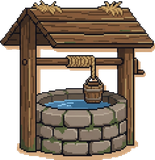
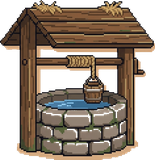
fix(vila): corrige os 8 problemas apontados no playtest
- arvores de fundo flutuavam sobre os vaos: as camadas de parallax ganharam
  uma "saia" de cor solida abaixo da linha do chao. Cor unica, nao
  prolongamento de cada coluna, que virava listra vertical.
- colinas nao apareciam: estavam cobertas pela treeline. As duas camadas
  foram reposicionadas em alturas distintas.
- arbusto e poco com mancha clara em volta: era a elipse de sombra bege do
  gerador. Nao e branca, entao escapava do limiar; agora o recorte tambem
  descarta o que for claro E dessaturado.
- pontinhos brancos na copa das arvores e franja no topo da grama: limiar
  ajustado e despeckle para os pixels soltos que sobravam.
- poluicao visual: fase alongada de 72 para 92 tiles e props reespacados.
  Casa sobre moinho e o alvo de treino sumido eram sintoma de densidade
  alta demais. Barraca e bigorna ficaram de fora por falta de espaco --
  os assets seguem no repo para a fase 2.
- raizes da arvore central acima do chao: props de fundo agora aceitam
  offsetY e a arvore afunda 26px.
- cerca atravessando o abismo: o comprimento e cortado na borda do segmento
  de chao em que ela comeca.

Pendente: o tile de grama continua alto demais. Depende de arte nova.

diff --git a/src/scenes/biomes/Vila_0/fase1Layout.js b/src/scenes/biomes/Vila_0/fase1Layout.js
@@ -12,78 +12,86 @@
 // sem recalcular lá:
 //   plataformas no MÁXIMO 2 tiles acima do chão (o pulo sobe ~2,75)
 //   vãos no MÁXIMO 3 tiles (alcance horizontal ~3,66)
+//
+// ESPAÇAMENTO: a primeira montagem colocou casa em cima de moinho e o alvo de
+// treino sumiu no meio dos props. A fase foi alongada de 72 para 92 tiles e
+// cada elemento ganhou espaço livre em volta. Vale a regra: melhor ter menos
+// props e conseguir ler cada um do que empilhar tudo.
 
-export const TILES_WIDE = 72;
+export const TILES_WIDE = 92;
 export const GROUND_ROW = 9;
 
-// Quantas linhas de terra desenhar abaixo da linha do chão. 3 cobre a tela
-// inteira até a borda inferior sem sobrar buraco.
+// Quantas linhas de terra desenhar abaixo da linha do chão.
 export const FILL_ROWS = 3;
 
 // [tileInicial, quantidadeDeTiles].
 // Os vãos entre segmentos ensinam o pulo em dificuldade crescente: 1 -> 2 -> 3.
-// O vão de 3 tiles (43–45) é o clímax do tutorial e vem logo antes do respiro
+// O vão de 3 tiles (51–53) é o clímax do tutorial e vem logo antes do respiro
 // da vila.
 export const GROUND_SEGMENTS = [
-  [0, 13],   // spawn, chão plano, sem risco — só mover
-  [14, 9],   // primeiro desnível (vão de 1)
-  [25, 10],  // vão de 2
-  [37, 6],   // vão de 2
-  [46, 16],  // vão de 3, depois o trecho da vila
-  [64, 8],   // vão de 2, depois a saída
+  [0, 16],   // spawn e árvore central — chão plano, só mover
+  [17, 10],  // primeiro desnível (vão de 1)
+  [29, 12],  // vão de 2 — plataformas e alvo de treino
+  [43, 8],   // vão de 2 — casa isolada na borda da vila
+  [54, 24],  // vão de 3 — a vila propriamente dita
+  [80, 12],  // vão de 2 — saída
 ];
 
 // Plataformas suspensas: [tileInicial, quantidadeDeTiles, alturaEmTiles].
 // Altura contada a partir da linha do chão. Nunca acima de MAX_PLATFORM_TILES.
 export const PLATFORMS = [
-  [16, 3, 1],  // degrau baixo — introduz o pulo sem punição
-  [20, 2, 2],  // já na altura máxima
-  [28, 3, 2],
-  [33, 2, 1],
-  [39, 3, 2],
-  [56, 2, 1],  // dentro da vila, opcional — leva a nada, só convida a pular
+  [19, 3, 1],  // degrau baixo — introduz o pulo sem punição
+  [23, 2, 2],  // já na altura máxima
+  [31, 3, 2],
+  [39, 2, 1],
 ];
 
 // Checkpoints — sempre no início de um trecho seguro, logo após um vão.
-export const CHECKPOINTS = [15, 26, 47];
+export const CHECKPOINTS = [18, 30, 55];
 
 export const SPAWN_TILE = 2;
-export const EXIT_TILE = 69;
+export const EXIT_TILE = 89;
 
-// Alvo de treino: ensina o Ataque. Objeto de cenário destrutível, sem IA e
-// sem dano — não é inimigo (04_BESTIARIO_MACRO.md não se aplica).
-export const TRAINING_DUMMY_TILE = 60;
+// Alvo de treino: ensina o Ataque. Fica sozinho no meio de um segmento, sem
+// nenhum prop por perto — na primeira montagem ele desaparecia no cenário.
+// Objeto de cenário destrutível, sem IA e sem dano: não é inimigo.
+export const TRAINING_DUMMY_TILE = 36;
 
 // --- Cenário ---------------------------------------------------------------
 // Camada de FUNDO: parallax leve (scrollFactor < 1), sem colisão.
-// São os marcos visuais e os edifícios da vila (02_CONTINENTE.md, Região 0).
+// offsetY afunda o prop no chão — a árvore tem raízes que se espalham para os
+// lados e, assentada exatamente na linha do chão, deixava terra flutuando.
 export const BACKGROUND_PROPS = [
-  { key: 'arvore', tileX: 5, scroll: 0.75 },        // marco visual do spawn
-  { key: 'casa_taipa', tileX: 47, scroll: 0.8 },
-  { key: 'moinho', tileX: 52, scroll: 0.7 },        // marco visual, isolado
-  { key: 'casa_madeira', tileX: 57, scroll: 0.8 },
+  { key: 'arvore', tileX: 6, scroll: 0.75, offsetY: 26 },  // marco visual
+  { key: 'casa_madeira', tileX: 46, scroll: 0.8 },         // casa isolada
+  { key: 'casa_taipa', tileX: 58, scroll: 0.8 },           // vila
+  { key: 'moinho', tileX: 68, scroll: 0.7 },               // marco visual
 ];
 
 // Camada de FRENTE: mesma velocidade do chão, assentados sobre ele.
-// A forja apagada e a barraca vazia são os "pequenos sinais" de que algo mudou
+// A forja apagada é um dos "pequenos sinais" de que algo mudou
 // (02_CONTINENTE.md, Região 0 — Lore).
+//
+// A barraca de mercado e a bigorna ficaram DE FORA: não havia espaço para
+// exibi-las sem encostar num edifício de fundo. Os assets seguem prontos no
+// repositório para quando a fase 2 (exploração) for montada.
 export const FOREGROUND_PROPS = [
   { key: 'arbusto', tileX: 3 },
-  { key: 'arbusto', tileX: 10 },
-  { key: 'arbusto', tileX: 30 },
-  { key: 'arbusto', tileX: 41 },
-  { key: 'poco', tileX: 49 },
-  { key: 'barraca', tileX: 53 },
-  { key: 'barril', tileX: 55.6 },
-  { key: 'caixa', tileX: 56.6 },
-  { key: 'forja', tileX: 58 },
-  { key: 'bigorna', tileX: 59.4 },
-  { key: 'arbusto', tileX: 66 },
+  { key: 'arbusto', tileX: 13 },
+  { key: 'arbusto', tileX: 26 },
+  { key: 'barril', tileX: 44 },
+  { key: 'caixa', tileX: 44.9 },
+  { key: 'arbusto', tileX: 50 },
+  { key: 'poco', tileX: 63 },
+  { key: 'forja', tileX: 73 },
+  { key: 'arbusto', tileX: 76 },
+  { key: 'arbusto', tileX: 86 },
 ];
 
-// Cercas: repetem lado a lado. Cada uma delimita algo que existe no cenário —
-// nunca decoração solta.
+// Cercas: repetem lado a lado. Cada peça tem ~4,2 tiles de largura, e o alcance
+// é validado em Fase1Scene para nunca atravessar um vão — cerca suspensa sobre
+// o abismo denuncia na hora que o cenário é só decoração.
 export const FENCES = [
-  { tileX: 8, pieces: 2, motivo: 'horta ao lado da árvore central' },
-  { tileX: 64, pieces: 3, motivo: 'pasto na saída da vila' },
+  { tileX: 9, pieces: 1, motivo: 'horta ao lado da árvore central' },
+  { tileX: 82, pieces: 2, motivo: 'pasto na saída da vila' },
 ];

diff --git a/src/scenes/biomes/Vila_0/Fase1Scene.js b/src/scenes/biomes/Vila_0/Fase1Scene.js
@@ -47,10 +47,13 @@ export default class Fase1Scene extends Phaser.Scene {
   buildParallax() {
     this.cameras.main.setBackgroundColor(SKY_COLOR);
 
+    // As colinas terminam logo abaixo da linha do chao e as arvores bem mais
+    // fundo: assim a treeline nao cobre os montes, e a base das arvores desce
+    // o suficiente para tapar o que se ve por dentro de um vao.
     const layers = [
       { key: 'bg_ceu', scroll: 0, bottom: GAME_HEIGHT },
       { key: 'bg_colinas', scroll: 0.15, bottom: this.groundY + TILE * 0.5 },
-      { key: 'bg_arvores', scroll: 0.35, bottom: this.groundY + TILE * 0.8 },
+      { key: 'bg_arvores', scroll: 0.35, bottom: this.groundY + TILE * 2.5 },
     ];
 
     this.parallax = layers.map(({ key, scroll, bottom }, i) => {
@@ -76,9 +79,9 @@ export default class Fase1Scene extends Phaser.Scene {
   // Marcos e edifícios ficam atrás do plano jogável, com parallax leve.
   // Sem colisão: são fundo (decisão registrada no VS_0_VILA_INICIAL.md).
   buildBackgroundProps() {
-    L.BACKGROUND_PROPS.forEach(({ key, tileX, scroll }) => {
+    L.BACKGROUND_PROPS.forEach(({ key, tileX, scroll, offsetY = 0 }) => {
       this.add
-        .image(tileX * TILE, this.groundY + GROUND_INSET, key)
+        .image(tileX * TILE, this.groundY + GROUND_INSET + offsetY, key)
         .setOrigin(0.5, 1)
         .setScrollFactor(scroll, 1)
         .setDepth(-50);
@@ -169,11 +172,24 @@ export default class Fase1Scene extends Phaser.Scene {
 
     L.FENCES.forEach(({ tileX, pieces }) => {
       const src = this.textures.get('cerca').getSourceImage();
+      const wanted = src.width * pieces;
+      // Encurta a cerca ate a borda do segmento de chao em que ela comeca.
+      // Sem isso ela seguia reta por cima do abismo, denunciando que o cenario
+      // e so decoracao.
+      const width = Math.min(wanted, this.segmentEndX(tileX) - tileX * TILE);
+      if (width < src.width * 0.4) return;
+
       this.add
-        .tileSprite(tileX * TILE, this.groundY + GROUND_INSET, src.width * pieces, src.height, 'cerca')
+        .tileSprite(tileX * TILE, this.groundY + GROUND_INSET, width, src.height, 'cerca')
         .setOrigin(0, 1)
         .setDepth(-5);
     });
+  }
+
+  /** Fim (em px) do segmento de chao que contem este tile. 0 se estiver num vao. */
+  segmentEndX(tileX) {
+    const seg = L.GROUND_SEGMENTS.find(([s, c]) => tileX >= s && tileX < s + c);
+    return seg ? (seg[0] + seg[1]) * TILE : 0;
   }
 
   // --------------------------------------------------------------------

diff --git a/tools/build_assets.py b/tools/build_assets.py
@@ -64,10 +64,26 @@ def alpha_from_white(rgb, thresh=40, enclosed_limit=None, defringe=True):
     return np.where(bg, 0, 255).astype(np.uint8)
 
 
-def clean(path, enclosed_limit=200):
-    """Remove o fundo branco de uma arte solta e recorta ao conteúdo."""
+def clean(path, enclosed_limit=200, drop_pale_shadow=False):
+    """Remove o fundo branco de uma arte solta e recorta ao conteúdo.
+
+    drop_pale_shadow: alguns geradores desenham uma elipse de sombra BEGE sob o
+    objeto. Ela não é branca, então escapa do limiar acima e sobrava como uma
+    mancha clara em volta do sprite. Aqui o recorte é feito por cor: sobra só o
+    que é saturado (a arte) ou escuro (o contorno).
+    """
     rgb = np.array(Image.open(path).convert("RGB"))
     alpha = alpha_from_white(rgb, enclosed_limit=enclosed_limit)
+
+    if drop_pale_shadow:
+        v = rgb.astype(int)
+        sat = v.max(axis=2) - v.min(axis=2)
+        lum = v.mean(axis=2)
+        # A elipse é clara e quase acinzentada; a arte é verde/marrom saturada
+        # ou escura no contorno. Só o que for claro E dessaturado cai fora.
+        sombra = (lum > 145) & (sat < 48)
+        alpha = np.where(sombra, 0, alpha)
+
     ys, xs = np.where(alpha > 0)
     rgba = np.dstack([rgb, alpha])[ys.min():ys.max() + 1, xs.min():xs.max() + 1]
     return Image.fromarray(rgba, "RGBA")
@@ -113,6 +129,31 @@ def crop_group(a, x0, x1):
     sub = a[:, x0:x1 + 1]
     ys, xs = np.where(sub[:, :, 3] > 0)
     return Image.fromarray(sub[ys.min():ys.max() + 1, xs.min():xs.max() + 1], "RGBA")
+
+
+def despeckle_white(rgba, thresh=200):
+    """Apaga pixels quase-brancos SOLTOS no meio de uma arte opaca.
+
+    São vãos minúsculos entre folhas que escapam do recorte de fundo (pequenos
+    demais para o enclosed_limit) e aparecem como pontinhos brancos sobre a
+    copa. Cada um recebe a cor mediana da vizinhança.
+    """
+    rgb = rgba[:, :, :3].astype(int)
+    solto = (rgb.min(axis=2) > thresh) & (rgba[:, :, 3] > 0)
+    if not solto.any():
+        return rgba
+
+    out = rgba.copy()
+    ys, xs = np.where(solto)
+    h, w = solto.shape
+    for y, x in zip(ys, xs):
+        y0, y1 = max(0, y - 3), min(h, y + 4)
+        x0, x1 = max(0, x - 3), min(w, x + 4)
+        viz = rgba[y0:y1, x0:x1]
+        bom = (viz[:, :, 3] > 0) & (viz[:, :, :3].astype(int).min(axis=2) <= thresh)
+        if bom.any():
+            out[y, x, :3] = np.median(viz[:, :, :3][bom], axis=0).astype(np.uint8)
+    return out
 
 
 def seam_fix(a, fade=10):
@@ -172,10 +213,11 @@ CERCA_HEIGHT = 96
 # Props de cenário
 # ----------------------------------------------------------------------
 def build_props():
+    # arbusto e poço vieram com a elipse de sombra bege do gerador
+    PALE_SHADOW = {"arbusto", "poco"}
     for name, height in SIMPLE_PROPS.items():
-        to_height(clean(UPLOADS / SRC[name]), height).save(
-            OUT / "props" / f"{name}.png"
-        )
+        im = clean(UPLOADS / SRC[name], drop_pale_shadow=name in PALE_SHADOW)
+        to_height(im, height).save(OUT / "props" / f"{name}.png")
 
     # Moinho: a folha traz 3 variações; a 1ª é a canônica (única com porta na
     # base de pedra e telhado cônico escuro, conforme aprovado).
@@ -237,7 +279,9 @@ def build_tiles():
         topo = seam_fix(a[0:TILE, x:x + TILE])
         # A grama tem as pontas das folhas vazadas: o branco entre elas vira
         # transparência, senão aparece um bloco branco acima do chão.
-        white = (topo.min(axis=2) > 225) & ((topo.max(axis=2) - topo.min(axis=2)) < 25)
+        # Limiar mais generoso: com 225 sobrava uma franja clara serrilhada
+        # acima das folhas, visivel contra o ceu.
+        white = (topo.min(axis=2) > 198) & ((topo.max(axis=2) - topo.min(axis=2)) < 34)
         Image.fromarray(
             np.dstack([topo, np.where(white, 0, 255).astype(np.uint8)]), "RGBA"
         ).save(OUT / "tiles" / f"tile_topo_{i}.png")
@@ -258,6 +302,87 @@ def build_tiles():
     )
 
     print(f"  {len(TILE_WINDOWS) * 2} tiles de {TILE}x{TILE}px + plataforma")
+
+
+# ----------------------------------------------------------------------
+# Parallax
+# ----------------------------------------------------------------------
+PARALLAX_SRC = {
+    "bg_ceu":     "9574393c9ccc262c968e93eb3300ac1c8d63f3c8.png",
+    "bg_colinas": "212ee489b1e389ccb3c044384f73d8857cc73848.png",
+    "bg_arvores": "194566832edf06813289a9a410c2cf51eca24005.png",
+}
+
+# Altura do horizonte dentro da imagem do céu, em px de um canvas de 720.
+HORIZON_Y = 560
+
+# Quantos px de cor sólida acrescentar abaixo de cada camada. Sem isso, ao
+# olhar por dentro de um vão do chão, via-se o céu por baixo das árvores e elas
+# pareciam flutuar.
+PARALLAX_SKIRT = {"bg_colinas": 200, "bg_arvores": 260}
+
+
+def _clone_over_stamp(rgb, cy=270, cx=955, half=42, src_dx=-260):
+    """Cobre o carimbo em estrela que o gerador aplica sempre no mesmo ponto.
+    Clonagem de um bloco vizinho — inpainting por mediana borrava a copa."""
+    out = rgb.copy()
+    out[cy - half:cy + half, cx - half:cx + half] = \
+        rgb[cy - half:cy + half, cx - half + src_dx:cx + half + src_dx]
+    return out
+
+
+def build_parallax():
+    # Céu: opaco e do tamanho do canvas. Estende com a cor da própria banda
+    # de topo e de base, em vez de ampliar a arte.
+    rgb = _clone_over_stamp(
+        np.array(Image.open(UPLOADS / PARALLAX_SRC["bg_ceu"]).convert("RGB"))
+    )
+    top = np.median(rgb[0:3], axis=(0, 1)).astype(np.uint8)
+    bot = np.median(rgb[-3:], axis=(0, 1)).astype(np.uint8)
+    out = np.zeros((720, rgb.shape[1], 3), np.uint8)
+    y0 = HORIZON_Y - rgb.shape[0]
+    out[:y0], out[y0:HORIZON_Y], out[HORIZON_Y:] = top, rgb, bot
+    Image.fromarray(out).convert("RGBA").save(OUT / "bg" / "bg_ceu.png")
+
+    for name in ["bg_colinas", "bg_arvores"]:
+        rgb = _clone_over_stamp(
+            np.array(Image.open(UPLOADS / PARALLAX_SRC[name]).convert("RGB"))
+        )
+        # enclosed_limit baixo: nas camadas de cenario todo vao branco cercado
+        # pelo desenho e buraco de fundo (entre copas), nao detalhe a preservar.
+        # Sem isso sobravam pontinhos brancos espalhados pela treeline.
+        alpha = alpha_from_white(rgb, enclosed_limit=6)
+        ys, _ = np.where(alpha > 0)
+        rgba = np.dstack([rgb, alpha])[ys.min():ys.max() + 1, :]
+
+        # "Saia" abaixo da camada, para ela nunca terminar no ar — sem isso,
+        # ao olhar por dentro de um vão do chão via-se o céu e as árvores
+        # pareciam flutuar.
+        #
+        # A saia é de cor ÚNICA, não do prolongamento de cada coluna: esticar
+        # coluna a coluna transformava os troncos em listras verticais. Uma
+        # faixa chapada lê como sombra sob a mata.
+        skirt = PARALLAX_SKIRT[name]
+        h, w, _ = rgba.shape
+        base = rgba[max(0, h - 12):h]
+        opaco = base[:, :, 3] > 200
+        fill = (np.median(base[:, :, :3][opaco], axis=0).astype(int)
+                if opaco.any() else np.array([60, 80, 55]))
+        fill = np.clip(fill * 0.82, 0, 255).astype(np.uint8)  # um tom mais escuro
+
+        ext = np.zeros((h + skirt, w, 4), np.uint8)
+        ext[:h] = despeckle_white(rgba)
+        ext[h:, :, :3] = fill
+        ext[h:, :, 3] = 255
+        # tapa também os vãos transparentes acima da linha de base
+        for x in range(w):
+            col = np.where(rgba[:, x, 3] > 200)[0]
+            if len(col):
+                ext[col.max():h, x, :3] = fill
+                ext[col.max():h, x, 3] = 255
+        Image.fromarray(ext, "RGBA").save(OUT / "bg" / f"{name}.png")
+
+    print("  3 camadas de parallax (com saia de base)")
 
 
 # ----------------------------------------------------------------------
@@ -305,13 +430,13 @@ def build_ui_and_narrative():
 
 if __name__ == "__main__":
     print("Gerando assets da Vila Inicial...")
-    for sub in ["props", "tiles", "ui/icons", "npcs", "cronicas"]:
+    for sub in ["props", "tiles", "bg", "ui/icons", "npcs", "cronicas"]:
         (OUT / sub).mkdir(parents=True, exist_ok=True)
     build_props()
     build_tiles()
+    build_parallax()
     build_ui_and_narrative()
     print("Pronto.")
     print()
-    print("NOTA: o spritesheet do protagonista e as camadas de parallax não são")
-    print("geradas aqui — as folhas de origem são de sessões anteriores e não")
-    print("estão mais em UPLOADS. Os arquivos já buildados seguem versionados.")
+    print("NOTA: o spritesheet do protagonista não é gerado aqui — as folhas de")
+    print("origem são de sessões anteriores e não estão mais em UPLOADS.")
